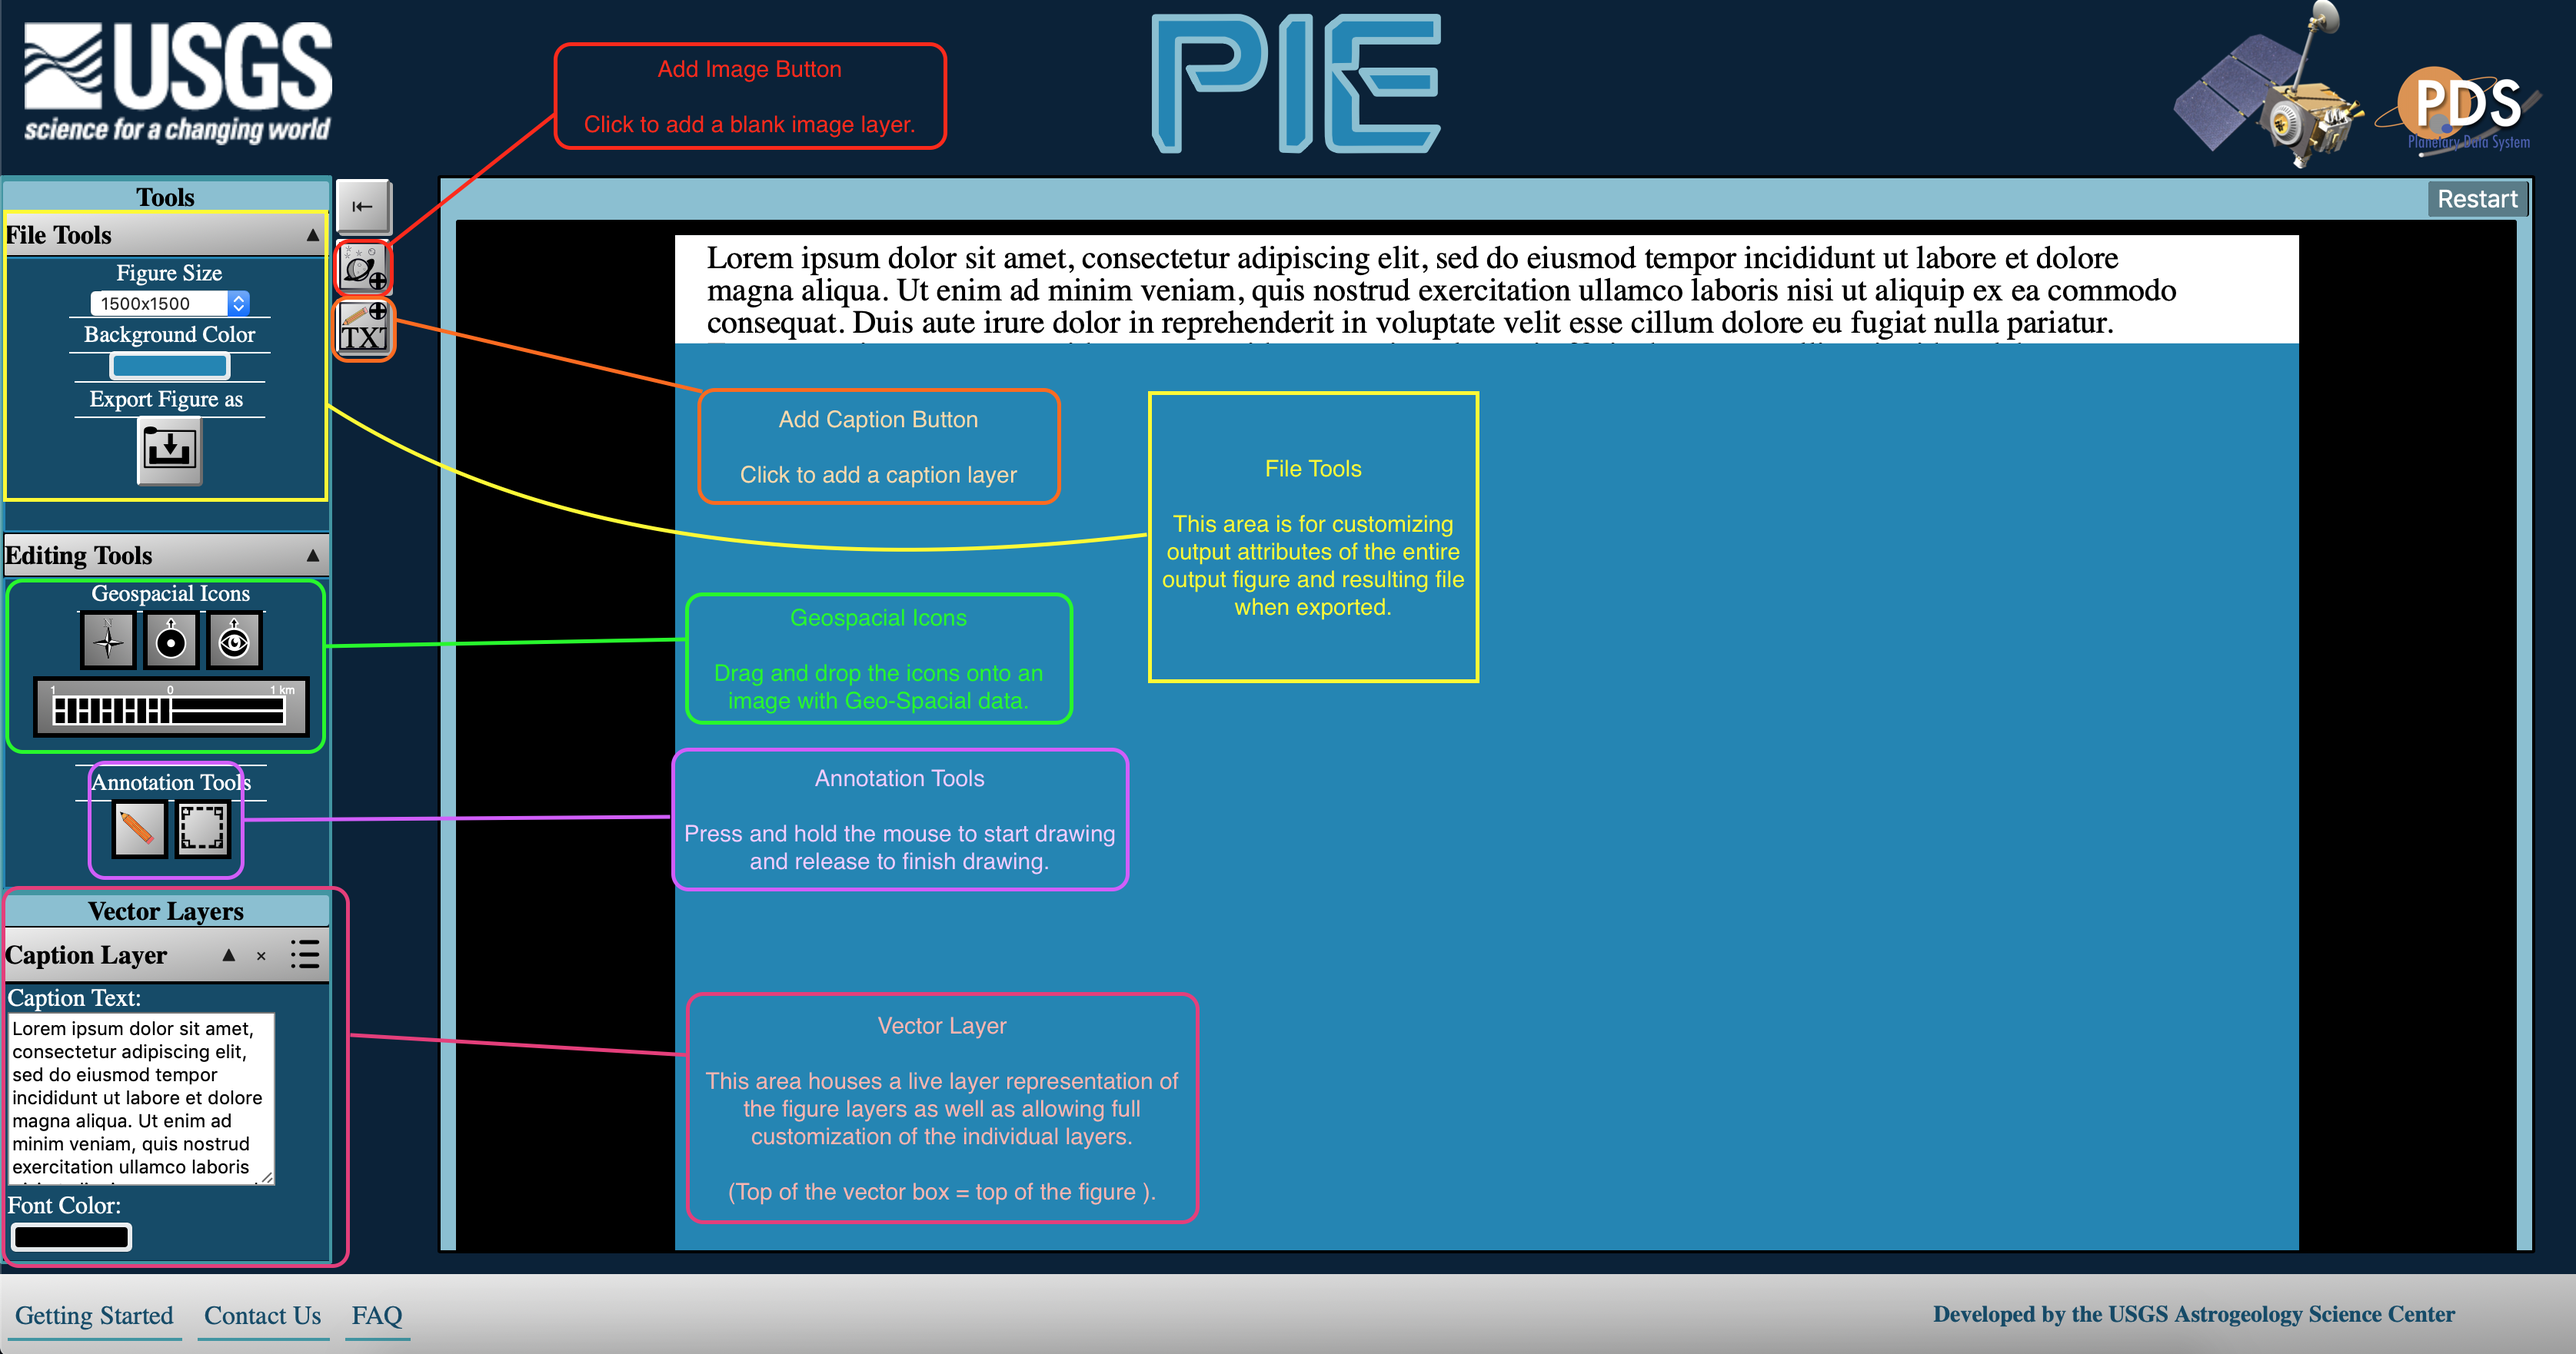
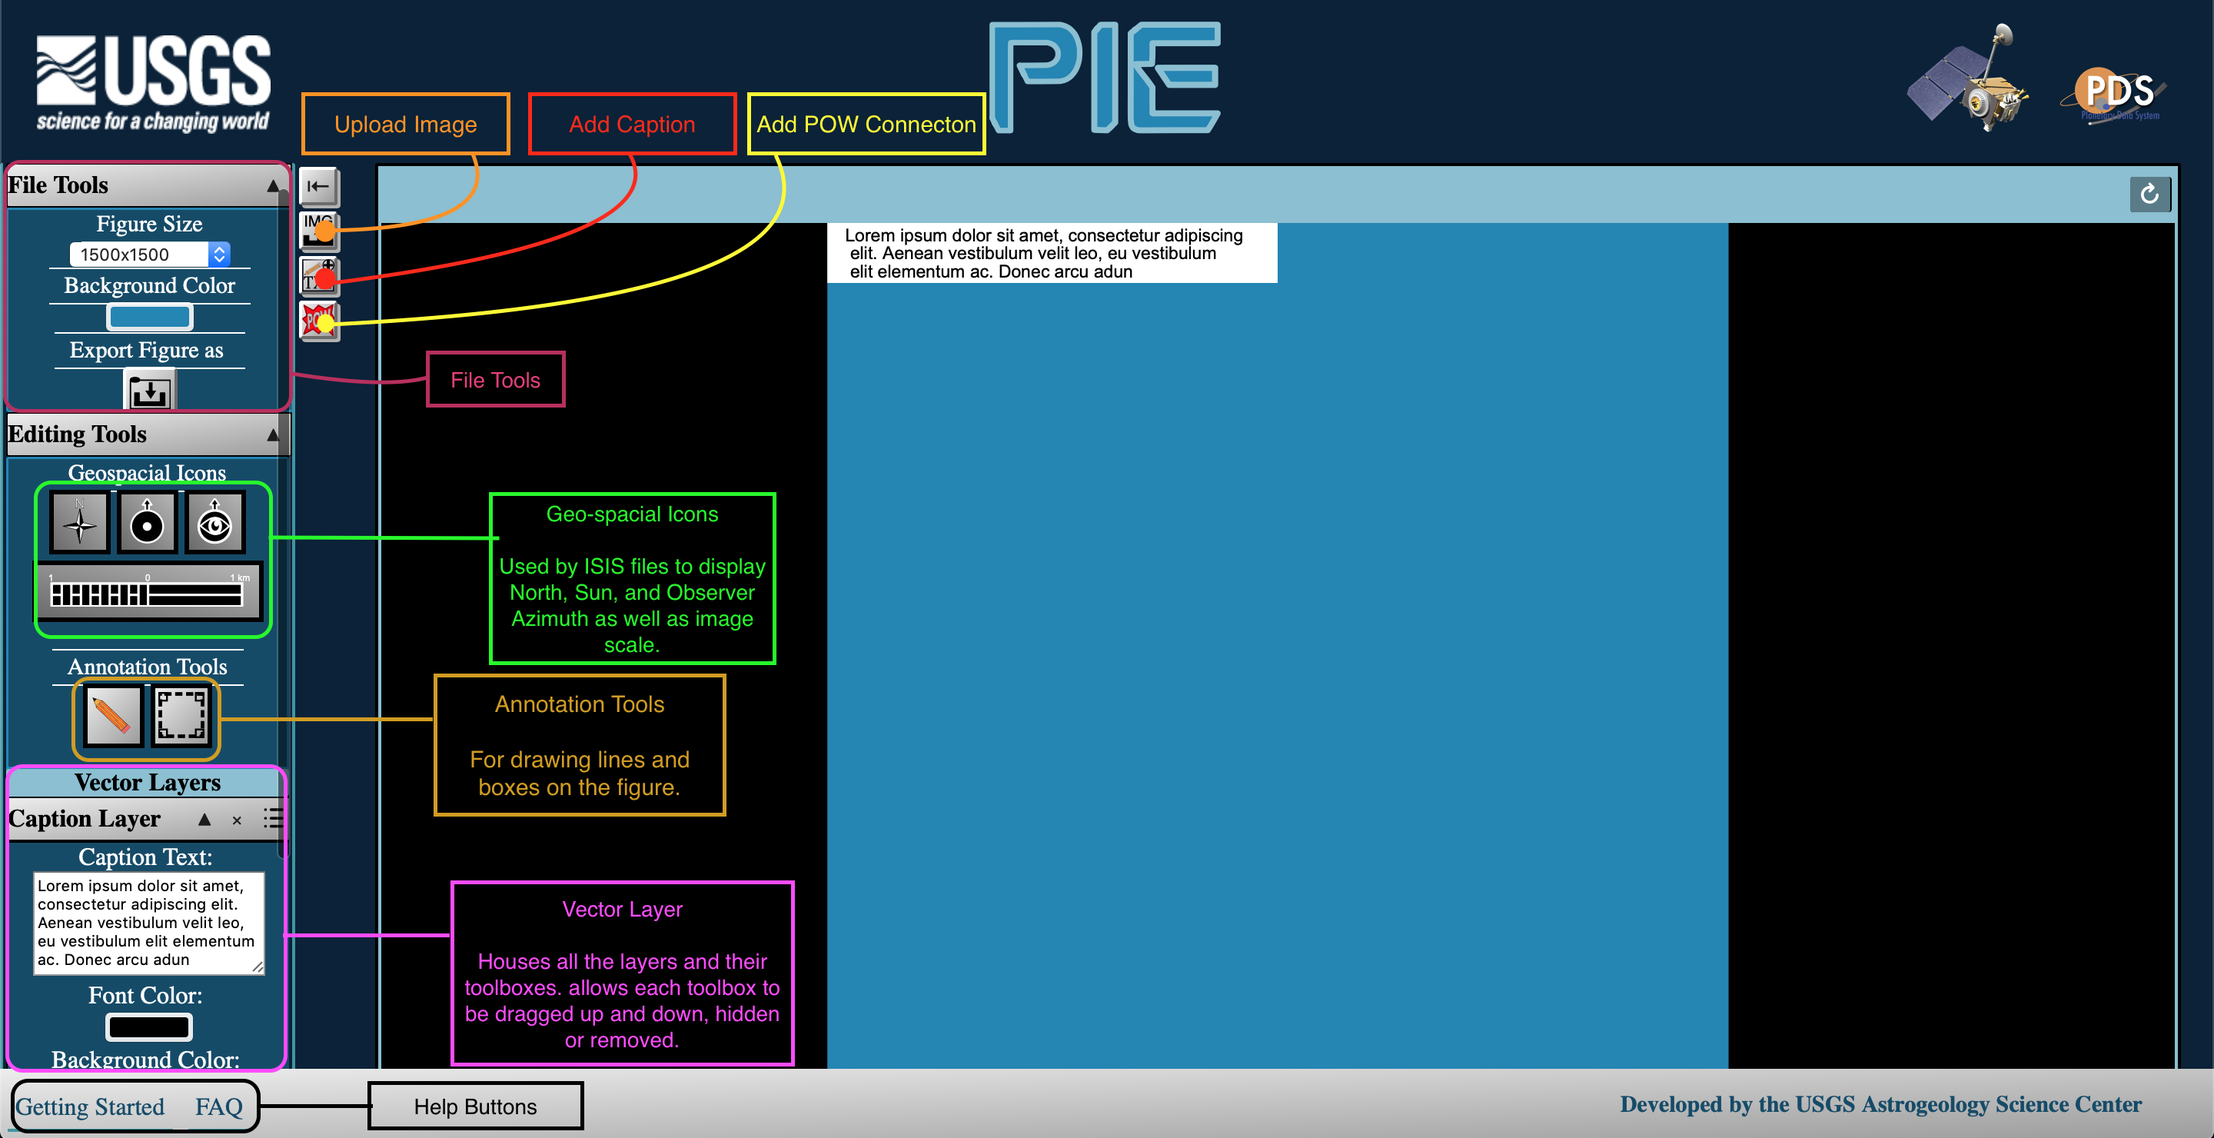
new ui image and added script

diff --git a/public/javascripts/index.js b/public/javascripts/index.js
@@ -1120,6 +1120,20 @@ $( function()
         getObjectCount(1, "caption")
     })
     
+
+    /**
+     * @function button.toolboxaddimagebtn.click()
+     * @description add the image to the svg and the toolbox stuff
+     * 
+     * TODO: refactor
+     * 
+     */
+    $('button.toolboxaddpowbtn').on("click", () =>
+    {
+        console.log("ADD A POW OBJECT")
+    });
+
+
     /**
      * @function button.toolboxaddimagebtn.click()
      * @description add the image to the svg and the toolbox stuff
